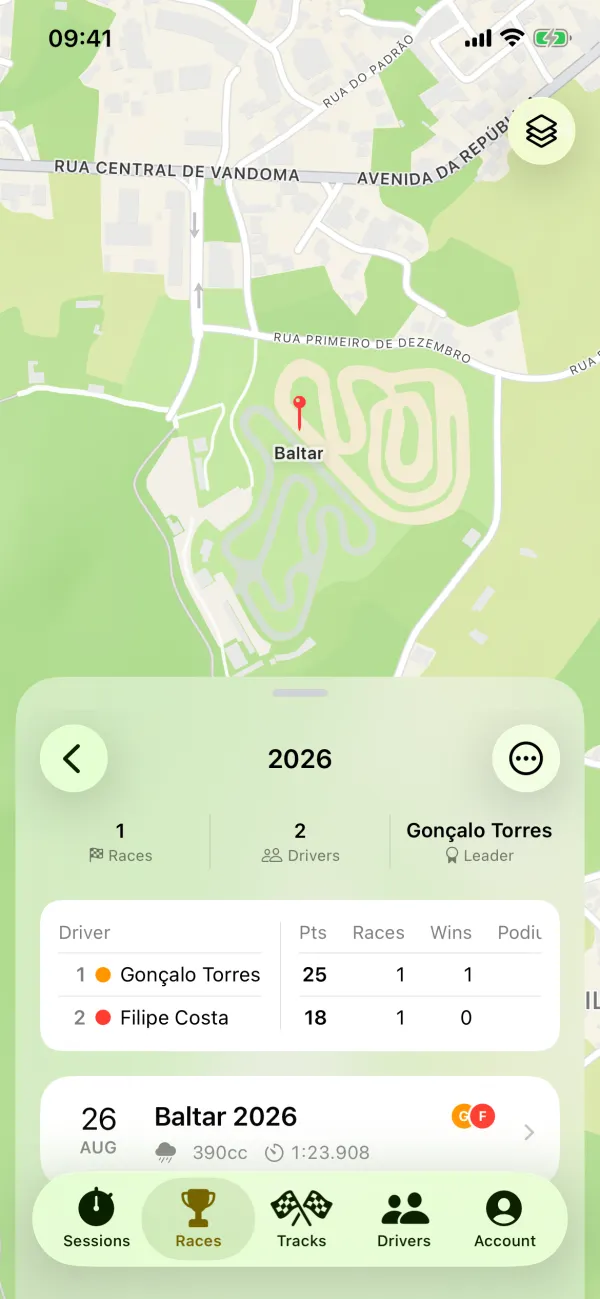
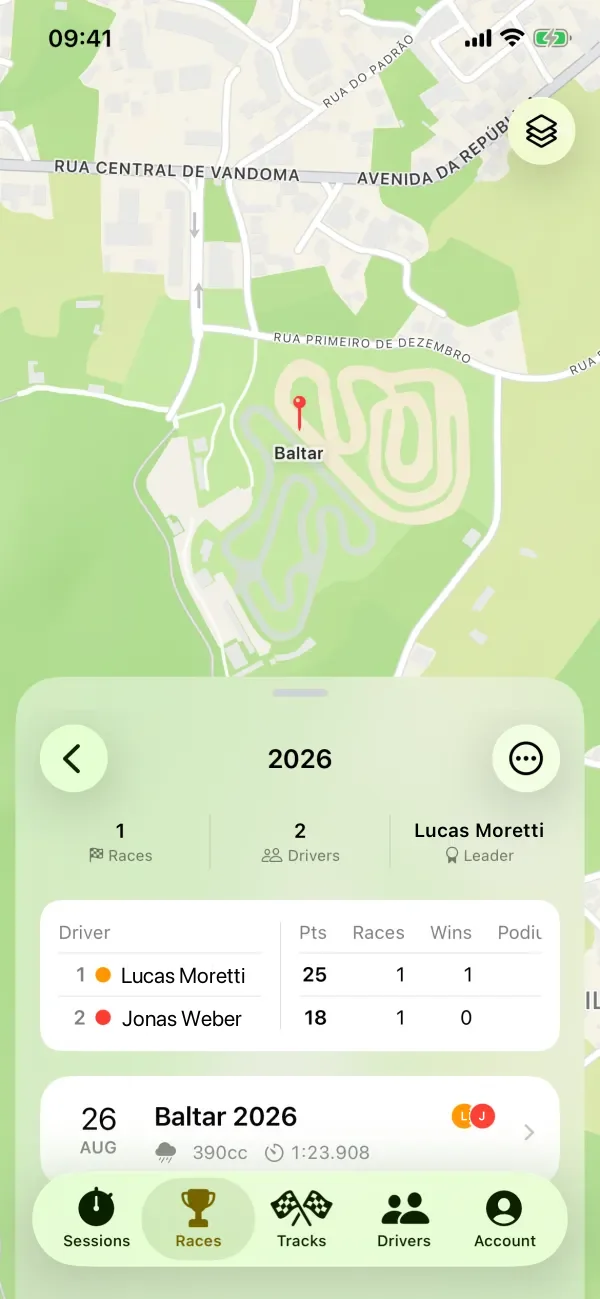
Compatibilidade, exemplos internacionais e a HERO12 sem GPS
- Seccao nova de compatibilidade (#compatibility): que aparelhos e
  ficheiros o Sektor le, requisitos e "Not on the list?".
- Exemplos internacionais: tabela de tempos de Lonato, nomes de varios
  paises, captura do campeonato com os nomes trocados, precos a inglesa.
- Suporte: GoPro HERO 11 Black ou HERO 13 Black (a HERO 12 e a HERO 11
  Mini nao tem GPS).

Changed region(s): [[0.21, 0.739, 0.42, 0.8006], [0.69, 0.6159, 0.93, 0.6467], [0.75, 0.8314, 0.81, 0.8622]]

diff --git a/index.html b/index.html
@@ -30,6 +30,7 @@
     <a class="brand" href="./"><img src="icon.png" alt=""><span>Sektor<small>Every tenth counts</small></span></a>
     <nav>
       <a href="#features">Features</a>
+      <a href="#compatibility">Compatibility</a>
       <a href="#pricing">Pricing</a>
       <a href="suporte.html">Support</a>
     </nav>
@@ -68,15 +69,16 @@
   </div>
 </section>
 
-<section class="feature" id="features">
+<section class="feature flip" id="features">
   <div class="container">
     <div class="copy">
       <h2>Import any session</h2>
       <h3>Your data, from the gear you already have.</h3>
       <p>Open a GoPro video, a RaceBox file or an export from another lap timer, and Sektor finds the laps on its own. Set the start/finish line after the session — right on the racing line you actually drove — and every lap is timed to the hundredth.</p>
       <ul class="chips">
-        <li>GoPro</li><li>RaceBox</li><li>GPX</li><li>VBO</li><li>NMEA</li>
+        <li>GoPro</li><li>RaceBox</li><li>RaceChrono</li><li>VBOX</li><li>GPX</li><li>NMEA</li>
       </ul>
+      <p class="see-all"><a href="#compatibility">See everything Sektor reads →</a></p>
     </div>
     <div class="visual" aria-hidden="true">
       <div class="phone ios solo">
@@ -84,6 +86,28 @@
           <img src="screenshots/sessions-list.webp" alt="" loading="lazy" width="600" height="1299">
         </div>
       </div>
+    </div>
+  </div>
+</section>
+
+<section class="compat" id="compatibility">
+  <div class="container">
+    <h2 class="section-title">Works with the gear you already have.</h2>
+    <p class="intro">Sektor reads the files your camera, GPS logger or lap timing app already makes. Choose the file and the laps are found for you.</p>
+    <table>
+      <thead><tr><th>Device or app</th><th>File</th><th>Good to know</th></tr></thead>
+      <tbody>
+        <tr><td><b>GoPro</b> HERO11 Black or HERO13 Black</td><td>MP4 or LRV</td><td>Turn GPS on before you record. Copy the video to your phone, or download it straight from the camera over Wi-Fi; a long recording split into several files comes in all at once. The HERO12 and the HERO11 Mini have no GPS, and older models aren't supported yet.</td></tr>
+        <tr><td><b>RaceBox</b></td><td>CSV or GPX</td><td>Export it from the RaceBox app. Don't pass the file through WhatsApp or re-save it in another program — both tend to break it.</td></tr>
+        <tr><td><b>RaceChrono</b></td><td>VBO (best) or NMEA</td><td>VBO brings the start/finish line and the sectors already set. NMEA keeps the full rate of the GPS receiver.</td></tr>
+        <tr><td><b>VBOX</b> or <b>Circuit Tools</b></td><td>VBO</td><td>When the file has lap timing set up, the start/finish line and the sectors come with it.</td></tr>
+        <tr><td><b>Any GPS logger</b></td><td>GPX or NMEA</td><td>Laps are found from the GPS track, and G-force is worked out from it too.</td></tr>
+        <tr><td><b>Timing sheet</b> from the rental track</td><td>CSV, TSV or text</td><td>For races: bring in everyone's times from the sheet the track hands out, or type them in.</td></tr>
+      </tbody>
+    </table>
+    <div class="compat-foot">
+      <p><strong>Phones.</strong> iPhone with iOS 17 or later, and Android 8.0 or later.</p>
+      <p><strong>Not on the list?</strong> Email a file exported from your device to <a href="mailto:hello.sektor.app@gmail.com">hello.sektor.app@gmail.com</a> — that's how new devices get added.</p>
     </div>
   </div>
 </section>
@@ -105,7 +129,7 @@
   </div>
 </section>
 
-<section class="feature">
+<section class="feature flip">
   <div class="container">
     <div class="copy">
       <h2>Onboard video</h2>
@@ -139,7 +163,7 @@
   </div>
 </section>
 
-<section class="feature">
+<section class="feature flip">
   <div class="container">
     <div class="copy">
       <h2>Track leaderboards</h2>
@@ -150,17 +174,17 @@
       <div class="phone android solo">
         <div class="screen">
           <div class="pane">
-            <h3>Baltar</h3>
+            <h3>Lonato</h3>
             <div class="sub">Leaderboard · 390cc</div>
             <div class="card">
               <ul class="rows">
-                <li style="border-top:0"><span class="pos p1">1</span><span class="who">J. Ferreira</span><span class="best">51.902</span></li>
-                <li><span class="pos p2">2</span><span class="who">Rita M.</span><span>52.611</span></li>
-                <li><span class="pos p3">3</span><span class="who">Duarte</span><span>52.740</span></li>
-                <li class="me"><span class="pos">4</span><span class="who">You</span><span>52.814</span></li>
-                <li><span class="pos">5</span><span class="who">Miguel S.</span><span>53.055</span></li>
-                <li><span class="pos">6</span><span class="who">Tiago</span><span>53.380</span></li>
-                <li><span class="pos">7</span><span class="who">Carla P.</span><span>53.912</span></li>
+                <li style="border-top:0"><span class="pos p1">1</span><span class="who">L. Moretti</span><span class="best">54.302</span></li>
+                <li><span class="pos p2">2</span><span class="who">Sophie M.</span><span>54.877</span></li>
+                <li><span class="pos p3">3</span><span class="who">Jonas</span><span>55.041</span></li>
+                <li class="me"><span class="pos">4</span><span class="who">You</span><span>55.116</span></li>
+                <li><span class="pos">5</span><span class="who">Lucía G.</span><span>55.398</span></li>
+                <li><span class="pos">6</span><span class="who">Tom</span><span>55.720</span></li>
+                <li><span class="pos">7</span><span class="who">Anke V.</span><span>56.249</span></li>
               </ul>
             </div>
             <div class="card">
@@ -229,11 +253,11 @@
 <section class="pricing" id="pricing">
   <div class="container">
     <h2 class="section-title">Pay only for what you'll use.</h2>
-    <p class="intro">Timing is free. Analysis and comparison are paid — but before you spend anything, Sektor comes with two real sessions and a race from Baltar with every feature unlocked, so you can see what you'd be getting.</p>
+    <p class="intro">Timing is free. Analysis and comparison are paid — but before you spend anything, Sektor comes with two real sessions and a real race with every feature unlocked, so you can see what you'd be getting.</p>
     <div class="plans">
       <div class="plan">
         <h4>Free</h4>
-        <div class="price">0 €</div>
+        <div class="price">€0</div>
         <p class="alt">Forever</p>
         <ul>
           <li>Import sessions</li>
@@ -246,7 +270,7 @@
       </div>
       <div class="plan">
         <h4>Single session</h4>
-        <div class="price">1,99 €</div>
+        <div class="price">€1.99</div>
         <p class="alt">One-off</p>
         <ul>
           <li>Analysis, video and comparison for one session, for good</li>
@@ -255,7 +279,7 @@
       </div>
       <div class="plan">
         <h4>Weekend pass</h4>
-        <div class="price">4,99 €</div>
+        <div class="price">€4.99</div>
         <p class="alt">3 days</p>
         <ul>
           <li>Everything unlocked for three days</li>
@@ -264,8 +288,8 @@
       </div>
       <div class="plan featured">
         <h4>Pro</h4>
-        <div class="price">9,99 € <small>/ month</small></div>
-        <p class="alt">or 49,99 € / year</p>
+        <div class="price">€9.99 <small>/ month</small></div>
+        <p class="alt">or €49.99 / year</p>
         <ul>
           <li>Sectors, corners, G-force and the ideal line</li>
           <li>Video synced with telemetry</li>

diff --git a/style.css b/style.css
@@ -166,7 +166,7 @@ footer.site a { margin-right: 1.1rem; }
 /* Feature blocks */
 .feature { padding: 5.5rem 0; border-top: 1px solid var(--line); }
 .feature .container { display: grid; grid-template-columns: 1fr 1fr; gap: 4rem; align-items: center; }
-.feature:nth-of-type(even) .copy { order: 2; }
+.feature.flip .copy { order: 2; }
 .feature .copy h2 { font-size: .8rem; letter-spacing: .14em; text-transform: uppercase; color: var(--accent); margin: 0 0 .8rem;
   padding: 0; border: 0; }
 .feature .copy h3 { font-size: clamp(1.8rem, 3.4vw, 2.6rem); line-height: 1.08; letter-spacing: -.03em; margin: 0 0 1.2rem; }
@@ -175,6 +175,18 @@ footer.site a { margin-right: 1.1rem; }
 .chips { display: flex; flex-wrap: wrap; gap: .45rem; margin-top: 1.3rem; padding: 0; list-style: none; }
 .chips li { margin: 0; font-size: .82rem; font-weight: 600; padding: .3rem .7rem; border-radius: 2rem; border: 1px solid var(--line);
   background: var(--surface); color: var(--ink); }
+.see-all { margin: 1.2rem 0 0; font-size: .95rem; font-weight: 600; }
+.see-all a { text-decoration: none; }
+
+/* Compatibility */
+.compat { padding: 5.5rem 0; border-top: 1px solid var(--line); }
+.compat table { margin: 0; font-size: .97rem; }
+.compat th, .compat td { padding: 1rem 1.5rem 1rem 0; }
+.compat td:first-child { color: var(--ink); width: 24%; }
+.compat td:first-child b { font-weight: 700; }
+.compat td:nth-child(2) { color: var(--ink); font-weight: 600; white-space: nowrap; }
+.compat-foot { display: grid; grid-template-columns: 1fr 1fr; gap: 1rem 3rem; margin-top: 2.2rem; }
+.compat-foot p { margin: 0; font-size: .97rem; }
 
 /* More grid */
 .more { padding: 5.5rem 0; border-top: 1px solid var(--line); background: var(--surface); }
@@ -187,7 +199,7 @@ footer.site a { margin-right: 1.1rem; }
 
 /* Pricing */
 .pricing { padding: 5.5rem 0; border-top: 1px solid var(--line); }
-.pricing .intro { max-width: 40rem; margin: -1.8rem 0 2.8rem; font-size: 1.05rem; }
+.pricing .intro, .compat .intro { max-width: 40rem; margin: -1.8rem 0 2.8rem; font-size: 1.05rem; }
 .plans { display: grid; grid-template-columns: repeat(4, 1fr); gap: 1rem; }
 .plan { background: var(--surface); border: 1px solid var(--line); border-radius: 1rem; padding: 1.4rem 1.3rem; display: flex; flex-direction: column; }
 .plan.featured { border-color: var(--accent-line); box-shadow: 0 0 0 1px var(--accent-line); }
@@ -222,10 +234,16 @@ footer.site a { margin-right: 1.1rem; }
   .grid { grid-template-columns: repeat(2, 1fr); }
 }
 @media (max-width: 800px) {
+  .compat thead { display: none; }
+  .compat table, .compat tbody, .compat tr, .compat td { display: block; width: auto !important; }
+  .compat tr { padding: 1.1rem 0; border-bottom: 1px solid var(--line); }
+  .compat td { border: 0; padding: 0; }
+  .compat td:nth-child(2) { margin: .15rem 0 .4rem; color: var(--accent); white-space: normal; }
+  .compat-foot { grid-template-columns: 1fr; }
   .topbar nav { display: none; }
   .hero { padding: 3rem 0 2rem; }
   .hero .container, .feature .container { grid-template-columns: 1fr; gap: 2.5rem; }
-  .feature:nth-of-type(even) .copy { order: 0; }
+  .feature.flip .copy { order: 0; }
   .feature { padding: 4rem 0; }
   .phones { height: 30rem; max-width: 26rem; margin: 0 auto; width: 100%; }
   .phones .phone { width: 13.5rem; }

diff --git a/suporte.html b/suporte.html
@@ -35,7 +35,7 @@
 <p>The track's start/finish line still needs to be set. Open the session, choose to define the start/finish line, and drag it to the point where you cross — laps are detected retroactively, without recording again.</p>
 
 <h3>Which files can I import</h3>
-<p>GoPro HERO 11 or newer (GPMF telemetry inside the MP4), RaceBox (CSV), RaceChrono (VBO), GPX and NMEA.</p>
+<p>GoPro HERO 11 Black or HERO 13 Black (GPMF telemetry inside the MP4; the HERO 12 and the HERO 11 Mini have no GPS), RaceBox (CSV), RaceChrono (VBO), GPX and NMEA.</p>
 
 <h3>My file won't open, or my device isn't on the list</h3>
 <p>When an import fails, the notice has a <strong>Send to support</strong> button: it opens an email with the error and the file attached. For a device that isn't in the import guide, use Account → Help and contact → Ask for support for my device, and attach a file it exported. Those files are how the app learns to read new formats.</p>
